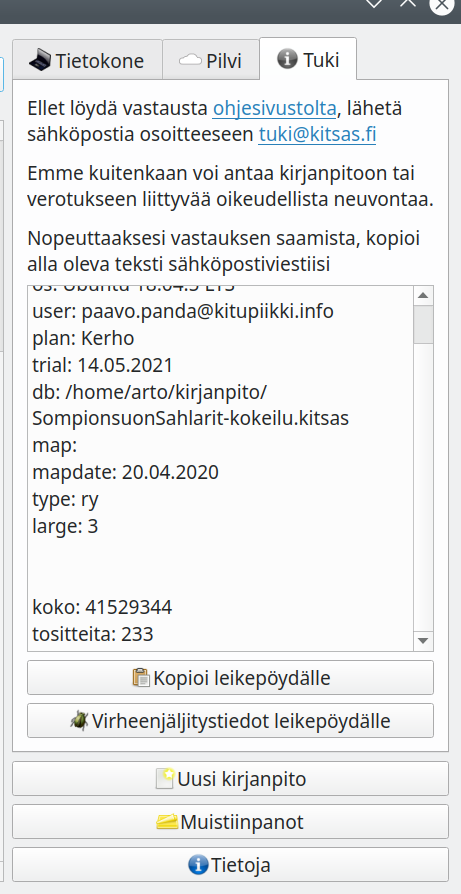
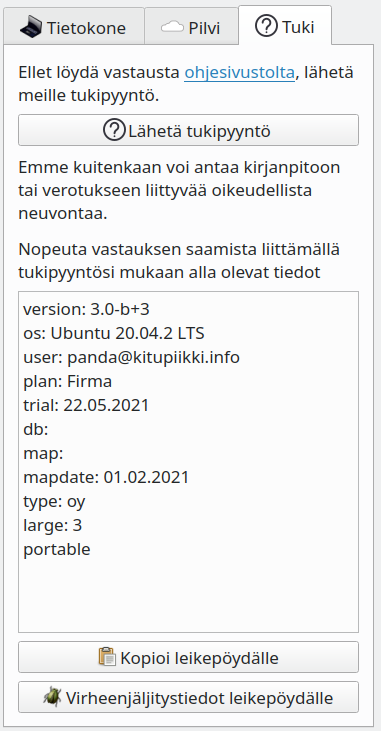
Auto stash before merge of "master" and "origin/master"

Changed region(s): [[0.0, 0.0, 1.0, 1.0]]

diff --git a/content/fi/tuki/_index.md b/content/fi/tuki/_index.md
@@ -38,8 +38,11 @@ Valitse, oletko
 {{</blocks/feature>}}
 {{<blocks/feature icon="far fa-envelope primary" title="Palaute">}}
 
-<p>Otamme kiitollisuudella vastaan palautetta ohjelmasta osoitteessa <b class="primary">palaute@kitsas.fi</b></p>
-<p>Emme välttämättä pysty vastaamaan henkilökohtaisesti kaikkeen palautteeseen. <b class="primary">Palauteosoitteessa ei anneta neuvontaa.</b></p>
+<p>Otamme kiitollisuudella vastaan palautetta ohjelmasta palautesivumme kautta</p>
+<p><a class="btn btn-lg btn-primary" href="https://kitsas.atlassian.net/servicedesk/customer/portal/6">
+Anna palautetta</a></p>
+
+<p>Emme välttämättä pysty vastaamaan henkilökohtaisesti kaikkeen palautteeseen.</p>
 <p>Iloitsemme siitä, että jo yli 2000 käyttäjää on löytänyt Kitsaan ja toivomme, että ohjelmastamme on paljon hyötyä. Emme kuitenkaan pysty antamaan neuvontaa ilmaiskäyttäjillemme, vaan toivomme että tukea tarvitsevat käyttäjämme liittyisivät tilauksella maksullisen tuen piiriin.</p>
 {{</blocks/feature>}}  
 {{% /blocks/section %}}
@@ -57,40 +60,56 @@ Näin luot käyttäjätunnuksen
 </div>
 
 {{% /blocks/section %}}
-
+{{% blocks/section color="white" height="min" %}}
+{{<uutiskirje>}}
+{{% /blocks/section %}}
 </div>    
 <div id="vip" class="tabcontent">
+
 {{% blocks/section color="white" height="min" %}}
-  {{<blocks/feature icon="fas fa-book primary" title="Kitsaan ohjeet" url="../docs">}}
-    <p>Näiltä sivuilta löydät kattavat ohjeet Kitsaan käyttämiseen.</p>
-  {{</blocks/feature>}}
-  {{<blocks/feature icon="fab fa-youtube primary" title="Ohjevideot" url="../videot">}}
-    <p>Olemme tehneet lukuisia ohjevideoita Kitsaan keskeisistä toiminnoista.</p>
-    {{</blocks/feature>}}  
-  {{<blocks/feature icon="far fa-envelope primary" title="Palaute">}}
-  <p>Kehitämme Kitsasta entistä paremmaksi ja otamme kiitollisuudella vastaan palautetta ohjelmasta osoitteessa <b class="primary">palaute@kitsas.fi</b></p>
-
-{{</blocks/feature>}}
-
+<div style="width:100%">
+<h1 style="text-align: center"><i class="fas fa-book primary"></i></h1>
+<h2 style="text-align: center">Kitsaan ohjeet</h3>
+<p class="lead" style="text-align:center">Näiltä sivuilta löydät kattavaat ohjeet Kitsaan käyttämiseen.<br>
+<a class="btn btn-lg btn-primary" style="margin-top: 1em; margin-bottom: 1em;" href="{{< relref "/docs/">}}">
+Lue ohjeita
+</a>
+</p>
+</div>
 {{% /blocks/section %}}
-{{% blocks/section color="white" height="min" %}}
 
+
+{{% blocks/section color="white" height="min" %}}
 <div>
-<img src="/img/fi/tuki.png" style="float:right;">
 <h1 style="text-align: center"><i class="fas fa-envelope-open-text primary"></i></h1>
-<h3 style="text-align: center">Tilaajien sähköpostineuvonta</h3>
-<p class="lead">Annamme tilaajillemme neuvontaa sähköpostilla osoitteessa <b class="primary">tuki@kitsas.fi<br/></b>Nopeuttaaksesi kysymyksesi käsittelyä liitä viestiisi tiedot, jotka löytyvät <b class="primary">Aloita</b>-sivun <b class="primary">Tuki</b>-välilehdeltä.</p>
-<p>Näiden tietojen perusteella tarkastamme, että tilauksesi on voimassa. Mukana on myös tietoja käyttämästäsi ohjelmasta ja tilikartasta, jotka helpottavat meitä kysymykseesi vastaamisessa.</p>
-<p>Helpoiten liität nämä tiedot painamalla Kitsaassa <b>Kopioi leikepöydälle</b> ja valitsemalla sähköpostiohjelmassasi <b>Liitä</b>. Joissain ongelmatilanteissa meitä auttaa myös, jos pystyt liittämään sähköpostiviestiisi ne tiedot, jotka löydät <b>Virheenjäljitystiedot leikepöydälle</b>-painikkeesta.</p>
-<p>Sähköpostineuvonta on käytettävissä myös tutustumisjakson ajan.</p>
+<h2 style="text-align: center">Tilaajien sähköpostineuvonta ja palaute</h3>
+<p class="lead" style="text-align:center; margin-bottom: 1em;">Sähköpostineuvonta on käytettävissä myös tutustumisjakson ajan.</p>
+
+<img src="/img/fi/tuki.png" style="float:right;">
+<p>Nopeiten jätät tukipyynnön suoraan Kitsas-ohjelmasta
+  <ul>
+    <li>Ellet ole kirjautuneena käyttäjätunnuksellasi ohjelmaan, kirjaudu <b>Aloita</b>-sivun <b>Pilvi</b>-välilehdellä</b></li>
+    <li>Paina <b>Tuki</b>-välilehdellä <b>Jätä tukipyyntö</b></li>
+    <li>Valitse sopivin tukilomake ja täytä se</li>
+    <li>Nopeuta käsittelyä lisäämällä <b>Tukitiedot</b> kohtaan ohjelman Tuki-välilehdellä näkyvät tiedot. Tämä onnistuu yleensä painamalla tukitietojen tekstialuetta hiiren oikealla napilla ja valitsemalla <b>Liitä</b>
+    <li>Pyrimme vastaamaan tukipyyntöösi viimeistään seuraavana työpäivänä</li>
+  </ul>
+</p>
+
+<p style="text-align: center; margin-top: 2em; padding-bottom: 1em;"> 
+Voit jättää tukipyynnön myös alla olevalla painikkeella tai ottaa yhteyttä  sähköpostilla <b class="primary">tuki@kitsas.fi</b> tai <b class="primary">palaute@kitsas.fi</b></br>
+<a class="btn btn-lg btn-primary" style="margin-top: 1em; margin-bottom: 1em;" href="https://kitsas.atlassian.net/servicedesk/customer/portal/5">
+Jätä tukipyyntö tai anna palautetta </a><br>
+Toivomme, että nopeutat tukiviestisi käsittelyä liittämällä siihen ohjelmassa <b>Aloita</b>-sivun <b>Tuki</b>-välilehdellä olevat tiedot. <br>Helpoiten teet sen painamalla <b>Kopioi leikepöydälle</b>-painiketta ja valitsemalla viestiä kirjoittaessasi <b>Liitä</b>.</p>
+
 <p>Kitsas Oy:n antama tuki rajoittuu ohjelman käyttämiseen. Kitsas ei anna kirjanpitoon tai verotukseen liittyvää neuvontaa eikä takaa, että Kitsaan tuen antama neuvonta olisi kirjanpidon kannalta riittävää.</p>
 
 </div>
 {{% /blocks/section %}}
-
-</div>
 {{% blocks/section color="white" height="min" %}}
 {{<uutiskirje>}}
 {{% /blocks/section %}}
+</div>
+
 
 <script src="/js/tabs.js" defer></script>
